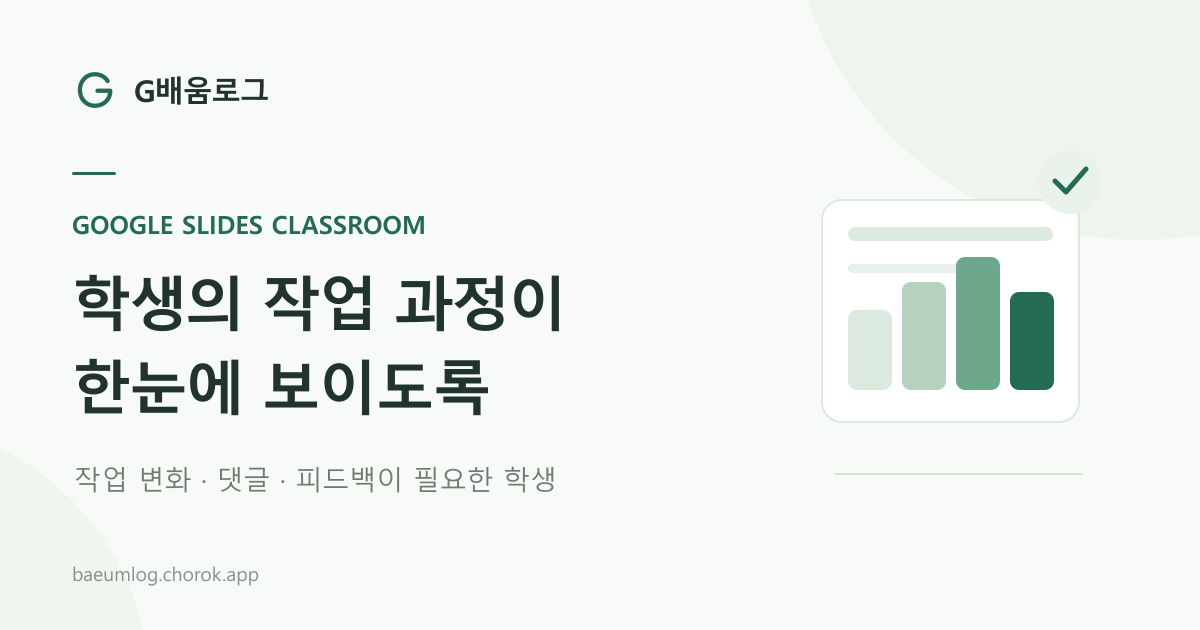
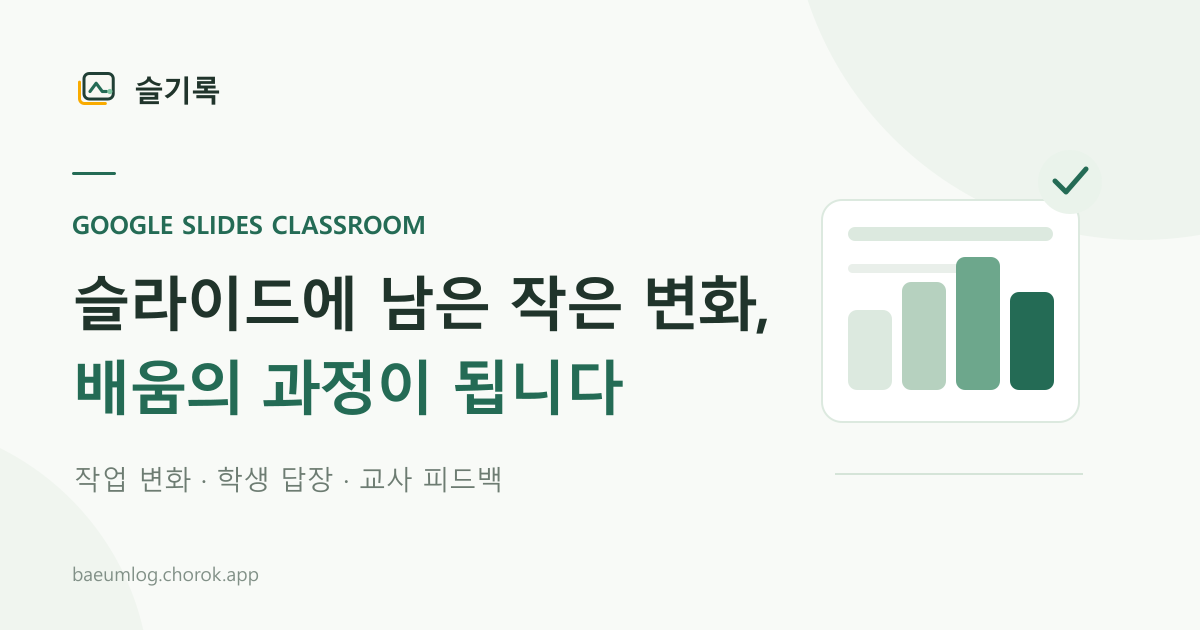
Apply Seulgirok branding with legacy data compatibility

diff --git a/src/app/privacy/page.js b/src/app/privacy/page.js
@@ -1,22 +1,22 @@
 import PublicInfoPage, { SupportContact } from '@/components/PublicInfoPage';
 
-export const metadata = { title: '개인정보처리방침 | G배움로그' };
+export const metadata = { title: '개인정보처리방침 | 슬기록' };
 
 export default function PrivacyPage() {
   return <PublicInfoPage title="개인정보처리방침">
-    <p>G배움로그는 교사가 Google 슬라이드 수업에서 학생의 작업 과정과 피드백을 살펴보는 도구입니다. 적용일: 2026년 10월 14일.</p>
+    <p>슬기록은 교사가 Google 슬라이드 수업에서 학생의 작업 과정과 피드백을 살펴보는 도구입니다. 적용일: 2026년 11월 1일.</p>
     <h2>제1조(처리하는 정보와 이용 목적)</h2>
     <ul><li>Google 계정의 표시 이름과 계정 식별값: 연결한 교사 계정을 확인하고 다른 계정의 저장소가 섞이지 않도록 사용합니다.</li><li>학급·과제·학생 번호와 이름 또는 가명, 연결된 슬라이드: 교사가 선택한 학급과 과제를 표시하고 학생별 작업을 연결합니다.</li><li>슬라이드의 글자·이미지·장 수, 텍스트와 확인 시각: 작업 변화를 기록하고 키워드를 확인합니다. 교사가 현재 작업 확인·수업 실시간 확인 또는 본문 조회를 선택하면 브라우저에서 슬라이드 본문을 읽습니다.</li><li>댓글·답장·피드백·교사 메모·키워드: 학생과 교사의 대화 및 교사의 관찰 기록을 제공합니다.</li></ul>
     <h2>제2조(Google 권한을 사용하는 방식)</h2>
-    <p>첫 로그인에서 G배움로그가 만들거나 교사가 Google Picker에서 직접 선택한 파일을 조회·저장하는 <code>drive.file</code> 권한을 요청합니다. 기존 자료와 예시 슬라이드는 교사가 Google Drive 선택 화면에서 명시적으로 고릅니다. 앱은 이 권한으로 Drive 전체 파일을 임의로 읽지 않습니다. 허용한 연결이 유효한 동안 학급·과제 생성이나 저장할 때마다 다시 동의를 요청하지 않으며, 연결이 만료되거나 로그아웃한 경우 다시 연결해야 할 수 있습니다.</p>
+    <p>첫 로그인에서 슬기록이 만들거나 교사가 Google Picker에서 직접 선택한 파일을 조회·저장하는 <code>drive.file</code> 권한을 요청합니다. 기존 자료와 예시 슬라이드는 교사가 Google Drive 선택 화면에서 명시적으로 고릅니다. 앱은 이 권한으로 Drive 전체 파일을 임의로 읽지 않습니다. 허용한 연결이 유효한 동안 학급·과제 생성이나 저장할 때마다 다시 동의를 요청하지 않으며, 연결이 만료되거나 로그아웃한 경우 다시 연결해야 할 수 있습니다.</p>
     <p>앱은 요청한 기능을 수행하기 위해 Google 사용자 데이터를 사용하며, 맞춤 광고나 AI 모델 학습을 위해 제공하지 않습니다. Google API에서 받은 정보의 사용 및 다른 앱으로의 전송에는 <a href="https://developers.google.com/terms/api-services-user-data-policy" target="_blank" rel="noopener noreferrer">Google API 서비스 사용자 데이터 정책</a>과 Limited Use 요건을 적용합니다.</p>
     <h2>제3조(저장 위치와 보관)</h2>
-    <p>학급 명단, 과제, 학생 슬라이드는 교사의 Google Drive에 저장합니다. 새 작업 기록·키워드·교사 메모는 과제별 교사 비공개 Google 시트에 저장합니다. 앱에서 작성한 피드백과 답글은 연결된 슬라이드의 Google 댓글로 저장합니다. 이 자료는 해당 교사의 Google 계정에 보관되며 다른 G배움로그 사용자와 공유되지 않습니다.</p>
+    <p>학급 명단, 과제, 학생 슬라이드는 교사의 Google Drive에 저장합니다. 새 작업 기록·키워드·교사 메모는 과제별 교사 비공개 Google 시트에 저장합니다. 앱에서 작성한 피드백과 답글은 연결된 슬라이드의 Google 댓글로 저장합니다. 이 자료는 해당 교사의 Google 계정에 보관되며 다른 슬기록 사용자와 공유되지 않습니다.</p>
     <p>Google 접근 토큰은 실행 중인 브라우저 메모리에만 보관하며 서버 저장소나 브라우저 영구 저장소에 저장하지 않습니다. 로그아웃하거나 페이지를 닫으면 연결을 종료합니다. OAuth 클라이언트 ID는 연결 설정을 직접 입력한 경우 브라우저에 남을 수 있으며 접근 토큰이나 비밀번호가 아닙니다.</p>
     <p>Google 파일과 기록은 교사가 삭제할 때까지 교사 계정에 남습니다. 로그아웃이나 Google 연결 해제만으로 해당 파일이 삭제되지는 않습니다. 앱이 닫혀 있을 때 학생 작업을 자동으로 수집하지 않습니다.</p>
     <p>교사가 종료하지 않은 과제의 관찰 화면을 열면 교사 비공개 기록 저장소를 연결하고, 화면이 보이는 동안 학생 작업을 약 30초 간격으로 확인합니다. 모니터링 종료 상태와 학생별 기록 중지 상태를 먼저 확인하며, 중지된 학생의 새 자료는 조회하지 않습니다. 교사는 자동 확인을 일시 중지하거나 과제의 모니터링을 종료할 수 있습니다.</p>
     <h2>제4조(개인정보 안전조치)</h2>
-    <ul><li>운영 웹앱과 Google API 연결은 HTTPS를 사용합니다. 접근 토큰은 브라우저 메모리에 보관하고, 만료 시각을 확인해 만료된 연결의 갱신을 요청합니다.</li><li>교사 기록 저장소의 소유자와 비공개 공유 상태를 검사합니다. 교사 소유의 비공개 파일인지 확인할 수 없으면 해당 기록 저장소의 읽기·쓰기를 중단합니다.</li><li>학생 접속용 시트와 교사 기록 저장소를 분리합니다. 공통 접속용 시트에 교사 메모·피드백·작업기록을 넣지 않습니다.</li><li>운영 주소의 학급·관찰·학생 경로는 모두 현재 G배움로그 화면으로 연결합니다.</li></ul>
+    <ul><li>운영 웹앱과 Google API 연결은 HTTPS를 사용합니다. 접근 토큰은 브라우저 메모리에 보관하고, 만료 시각을 확인해 만료된 연결의 갱신을 요청합니다.</li><li>교사 기록 저장소의 소유자와 비공개 공유 상태를 검사합니다. 교사 소유의 비공개 파일인지 확인할 수 없으면 해당 기록 저장소의 읽기·쓰기를 중단합니다.</li><li>학생 접속용 시트와 교사 기록 저장소를 분리합니다. 공통 접속용 시트에 교사 메모·피드백·작업기록을 넣지 않습니다.</li><li>운영 주소의 학급·관찰·학생 경로는 모두 현재 슬기록 화면으로 연결합니다.</li></ul>
     <p>학생 본문을 앱 서버의 별도 데이터베이스에 저장하지 않는다는 것은 학생 개인정보를 처리하지 않는다는 뜻이 아닙니다. 앱은 위에 안내한 학생 정보와 작업 자료를 브라우저에서 조회하고 교사가 선택한 Google 파일에 기록합니다.</p>
     <h2>제5조(학생 링크와 공유)</h2>
     <p>공통 학생 링크에는 별도 접속 시트의 학생 번호·이름 또는 가명·슬라이드 연결·학급명·과제명만 제공합니다. 교사 메모와 작업기록 저장소는 이 접속 시트에 넣지 않습니다. 공통 링크를 받은 사람은 학생 목록을 볼 수 있으며, 이름 선택만으로 학생 본인을 인증하지는 않습니다.</p>

diff --git a/src/lib/googleApi.js b/src/lib/googleApi.js
@@ -1,4 +1,4 @@
-// Client-side Google API wrapper for SlideSight
+// Client-side Google API wrapper for 슬기록
 import { createGoogleClassroom } from './googleClassroom.mjs';
 import { assignmentFileName, parseAssignmentFileName } from './assignmentFileNames.mjs';
 
@@ -258,7 +258,7 @@ export async function createDatabaseSpreadsheet(className, assignmentName) {
       }
     });
   } catch (permErr) {
-    console.warn('[SlideSight] 스프레드시트 링크 공유 권한 설정 실패 (학교 도메인 정책 제한일 수 있음):', permErr);
+    console.warn('[슬기록] 스프레드시트 링크 공유 권한 설정 실패 (학교 도메인 정책 제한일 수 있음):', permErr);
   }
 
   return spreadsheetId;
@@ -313,7 +313,7 @@ export async function duplicateSlideForStudents(templateId, studentsList, spread
           fileId: templateId,
           supportsAllDrives: true,
           resource: {
-            name: `[${studentNum ? studentNum + '번 ' : ''}${studentName}] SlideSight 과제`
+            name: `[${studentNum ? studentNum + '번 ' : ''}${studentName}] 슬기록 과제`
           }
         });
 
@@ -331,7 +331,7 @@ export async function duplicateSlideForStudents(templateId, studentsList, spread
             }
           });
         } catch (permErr) {
-          console.warn(`[SlideSight] ${studentName} 슬라이드 권한 설정 경고:`, permErr);
+          console.warn(`[슬기록] ${studentName} 슬라이드 권한 설정 경고:`, permErr);
         }
 
         completedCount++;
@@ -404,7 +404,7 @@ export async function duplicateSlideForStudents(templateId, studentsList, spread
       }
     });
   } catch (baseErr) {
-    console.warn('[SlideSight] 템플릿 기준선 측정 실패 (대체 계산 사용):', baseErr);
+    console.warn('[슬기록] 템플릿 기준선 측정 실패 (대체 계산 사용):', baseErr);
   }
 
   return studentsResults;
@@ -562,7 +562,7 @@ export async function fetchSlideStats(slideId, keywords = []) {
 export async function fetchAssignmentsList(className = null) {
   if (!getAccessToken()) throw new Error('Not authenticated');
 
-  const query = "(name contains 'G배움로그_과제_' or name contains 'SlideSight_DB_') and mimeType = 'application/vnd.google-apps.spreadsheet' and trashed = false";
+  const query = "(name contains '슬기록_과제_' or name contains 'G배움로그_과제_' or name contains 'SlideSight_DB_') and mimeType = 'application/vnd.google-apps.spreadsheet' and trashed = false";
 
   const response = await window.gapi.client.drive.files.list({
     q: query,
@@ -784,9 +784,9 @@ export async function appendActivityLogs(spreadsheetId, logs) {
  * 8. 학급 명단 저장소 파일 검색 및 생성
  */
 async function getOrCreateRosterSpreadsheet() {
-  // 1) "G배움로그_학급명단_저장소" 또는 기존 "슬라이드대시보드_학급명단_저장소" 파일 검색
+  // 1) 슬기록 또는 이전 버전 학급 명단 저장소 검색
   const listResp = await window.gapi.client.drive.files.list({
-    q: "(name = 'G배움로그_학급명단_저장소' or name = '슬라이드대시보드_학급명단_저장소') and mimeType = 'application/vnd.google-apps.spreadsheet' and trashed = false",
+    q: "(name = '슬기록_학급명단_저장소' or name = 'G배움로그_학급명단_저장소' or name = '슬라이드대시보드_학급명단_저장소') and mimeType = 'application/vnd.google-apps.spreadsheet' and trashed = false",
     fields: 'files(id, name)'
   });
 
@@ -798,7 +798,7 @@ async function getOrCreateRosterSpreadsheet() {
   // 2) 없으면 새로 만들기
   const createResp = await window.gapi.client.sheets.spreadsheets.create({
     resource: {
-      properties: { title: 'G배움로그_학급명단_저장소' }
+      properties: { title: '슬기록_학급명단_저장소' }
     }
   });
   return createResp.result.spreadsheetId;
@@ -866,7 +866,7 @@ export async function fetchClassRosters() {
   if (!getAccessToken()) throw new Error('Not authenticated');
 
   const listResp = await window.gapi.client.drive.files.list({
-    q: "(name = 'G배움로그_학급명단_저장소' or name = '슬라이드대시보드_학급명단_저장소') and mimeType = 'application/vnd.google-apps.spreadsheet' and trashed = false",
+    q: "(name = '슬기록_학급명단_저장소' or name = 'G배움로그_학급명단_저장소' or name = '슬라이드대시보드_학급명단_저장소') and mimeType = 'application/vnd.google-apps.spreadsheet' and trashed = false",
     fields: 'files(id)'
   });
 
@@ -892,7 +892,7 @@ export async function loadClassRoster(rosterName) {
   if (!getAccessToken()) throw new Error('Not authenticated');
 
   const listResp = await window.gapi.client.drive.files.list({
-    q: "(name = 'G배움로그_학급명단_저장소' or name = '슬라이드대시보드_학급명단_저장소') and mimeType = 'application/vnd.google-apps.spreadsheet' and trashed = false",
+    q: "(name = '슬기록_학급명단_저장소' or name = 'G배움로그_학급명단_저장소' or name = '슬라이드대시보드_학급명단_저장소') and mimeType = 'application/vnd.google-apps.spreadsheet' and trashed = false",
     fields: 'files(id)'
   });
 
@@ -920,7 +920,7 @@ export async function deleteClassRoster(rosterName) {
   if (!getAccessToken()) throw new Error('Not authenticated');
 
   const listResp = await window.gapi.client.drive.files.list({
-    q: "(name = 'G배움로그_학급명단_저장소' or name = '슬라이드대시보드_학급명단_저장소') and mimeType = 'application/vnd.google-apps.spreadsheet' and trashed = false",
+    q: "(name = '슬기록_학급명단_저장소' or name = 'G배움로그_학급명단_저장소' or name = '슬라이드대시보드_학급명단_저장소') and mimeType = 'application/vnd.google-apps.spreadsheet' and trashed = false",
     fields: 'files(id)'
   });
 

diff --git a/src/app/terms/page.js b/src/app/terms/page.js
@@ -1,13 +1,13 @@
 import PublicInfoPage, { SupportContact } from '@/components/PublicInfoPage';
 
-export const metadata = { title: '이용 안내 | G배움로그' };
+export const metadata = { title: '이용 안내 | 슬기록' };
 
 export default function TermsPage() {
   return <PublicInfoPage title="이용 안내">
-    <p>G배움로그는 Google 슬라이드 수업의 작업 과정, 학생 답장, 교사 피드백과 비공개 메모를 살펴보는 교사용 도구입니다. 적용일: 2026년 10월 14일.</p>
+    <p>슬기록은 Google 슬라이드 수업의 작업 과정, 학생 답장, 교사 피드백과 비공개 메모를 살펴보는 교사용 도구입니다. 적용일: 2026년 11월 1일.</p>
     <h2>교사와 학생의 이용</h2><p>교사는 자신의 Google 계정으로 자료를 연결하고 학급·과제와 학생 번호·이름 또는 가명을 등록합니다. 학생은 교사가 안내한 공통 링크에서 자신의 번호·이름을 선택하거나 개별 슬라이드 링크로 접속합니다. 교사는 학생 자료의 수집과 공유를 학교의 지침에 맞게 관리합니다.</p>
     <h2>기록의 해석</h2><p>표시되는 변화는 앱이 실제로 확인한 시점 사이의 차이입니다. 미수집 기간의 작업 시각이나 활동을 추정하지 않습니다. 텍스트 증가만으로 복사·붙여넣기나 부정행위를 단정하지 않으며, 기록은 학생과의 대화 및 교사의 평가 판단을 돕는 자료로 사용합니다.</p>
-    <h2>계정·파일·접속 링크 관리</h2><p>G배움로그는 앱이 만들거나 교사가 Google Drive 선택 화면에서 직접 고른 파일만 연결합니다. Google 권한, 학생 파일의 공유 범위, 공통 접속 링크 및 내보낸 자료는 교사가 관리합니다. 학생은 자기 이름과 연결된 파일을 선택해 사용하고 다른 학생의 자료를 임의로 수정하지 않아야 합니다. 공통 링크의 이름 선택은 신원을 인증하는 절차가 아닙니다.</p>
+    <h2>계정·파일·접속 링크 관리</h2><p>슬기록은 앱이 만들거나 교사가 Google Drive 선택 화면에서 직접 고른 파일만 연결합니다. Google 권한, 학생 파일의 공유 범위, 공통 접속 링크 및 내보낸 자료는 교사가 관리합니다. 학생은 자기 이름과 연결된 파일을 선택해 사용하고 다른 학생의 자료를 임의로 수정하지 않아야 합니다. 공통 링크의 이름 선택은 신원을 인증하는 절차가 아닙니다.</p>
     <h2>서비스 연결과 변경</h2><p>Google 인증 상태, 학교 계정 정책, API 사용량 또는 네트워크 상태에 따라 연결 기능이 제한될 수 있습니다. 브라우저를 닫으면 작업 수집을 중단합니다. 수업 전에 연결과 학생 접속 권한을 확인하고, 중요한 자료는 교사의 Google Drive에서 보관 상태를 확인해 주세요.</p>
     <h2>데이터 처리와 문의</h2><p>자료 처리 및 삭제·접근 권한 해제 방법은 개인정보처리방침에서 안내합니다.</p><SupportContact />
   </PublicInfoPage>;

diff --git a/src/components/ClassWorkspace.js b/src/components/ClassWorkspace.js
@@ -100,7 +100,7 @@ export default function ClassWorkspace({ classItem, assignments, roster, rosterE
   const visible = assignments.filter((assignment) => assignment.name.toLocaleLowerCase().includes(search.trim().toLocaleLowerCase()));
   return <div className={styles.page}>
     <header className={styles.header}><div className={styles.headerInner}>
-      <button className={`${styles.brand} ${real.brandButton}`} onClick={onBack} disabled={busy}><BrandMark size={36} /><span>G배움로그</span></button>
+      <button className={`${styles.brand} ${real.brandButton}`} onClick={onBack} disabled={busy}><BrandMark size={36} /><span>슬기록</span></button>
       <div className={real.headerActions}><span>{account?.displayName && `${account.displayName} 선생님`}</span><button className={real.plainButton} onClick={onReconnect} disabled={busy}>다시 로그인</button><button className={real.plainButton} onClick={onLogout} disabled={busy}>로그아웃</button></div>
     </div></header>
     <main className={styles.main}>
@@ -129,7 +129,7 @@ export default function ClassWorkspace({ classItem, assignments, roster, rosterE
             <button className={styles.cardButton} disabled={busy} onClick={() => onOpen(assignment)} aria-label={`${assignment.name} ${assignment.slidesTrashed ? '저장된 기록 보기' : '학생 작업 살펴보기'}`}><span>{assignment.slidesTrashed ? '저장된 기록 보기' : '학생 작업 살펴보기'}</span><Icon name="arrow" size={17} /></button>
           </article>)}
         </div>
-        {!visible.length && <div className={styles.empty}><h3>{search ? '검색한 과제가 없어요' : '첫 과제를 만들어 보세요'}</h3><p>{search ? '다른 과제 이름을 검색해 주세요.' : '새 과제를 만들거나 이전 G배움로그 과제 시트를 가져올 수 있어요.'}</p>{search ? <button className={styles.secondaryButton} onClick={() => setSearch('')}>전체 과제 보기</button> : onCreate && <div className={real.assignmentActions}>{onImport && <button className={styles.secondaryButton} onClick={onImport} disabled={busy}>기존 과제 가져오기</button>}<button className={styles.primaryButton} onClick={onCreate} disabled={busy || !roster?.length}>새 과제 만들기</button></div>}</div>}
+        {!visible.length && <div className={styles.empty}><h3>{search ? '검색한 과제가 없어요' : '첫 과제를 만들어 보세요'}</h3><p>{search ? '다른 과제 이름을 검색해 주세요.' : '새 과제를 만들거나 이전 슬기록·G배움로그 과제 시트를 가져올 수 있어요.'}</p>{search ? <button className={styles.secondaryButton} onClick={() => setSearch('')}>전체 과제 보기</button> : onCreate && <div className={real.assignmentActions}>{onImport && <button className={styles.secondaryButton} onClick={onImport} disabled={busy}>기존 과제 가져오기</button>}<button className={styles.primaryButton} onClick={onCreate} disabled={busy || !roster?.length}>새 과제 만들기</button></div>}</div>}
       </section>
       <MadeByStamp />
     </main>

diff --git a/src/components/EntryScreen.js b/src/components/EntryScreen.js
@@ -28,19 +28,19 @@ export default function EntryScreen({ onLogin, preview = false, loading = false,
     <main className={styles.page}>
       <div className={styles.canvas}>
         <header className={styles.header}>
-          <div className={styles.brand} aria-label="G배움로그">
+          <div className={styles.brand} aria-label="슬기록">
             <BrandMark size={42} />
-            <span>G배움로그</span>
+            <span>슬기록</span>
           </div>
           <span className={styles.headerNote}>학생의 작업 과정을 살피는 도구</span>
         </header>
 
         <div className={styles.layout}>
           <section className={styles.story} aria-labelledby="hero-title">
-            <div className={styles.eyebrow}><span className={styles.eyebrowLine} /> G배움로그를 소개합니다</div>
+            <div className={styles.eyebrow}><span className={styles.eyebrowLine} /> 결과보다 과정을 봅니다</div>
             <h1 id="hero-title" className={styles.headline}>
-              학생의 슬라이드 작업,<br />
-              <span>과정까지 한눈에.</span>
+              슬라이드에 남은 작은 변화,<br />
+              <span>배움의 과정이 됩니다.</span>
             </h1>
             <p className={styles.description}>
               구글 슬라이드로 수업할 때, 학생마다 다른 진행 상황을 살피고 필요한 도움을 제때 전할 수 있습니다.
@@ -48,7 +48,7 @@ export default function EntryScreen({ onLogin, preview = false, loading = false,
           </section>
 
           <section className={styles.signInCard} aria-labelledby="sign-in-title">
-            <div className={styles.cardOverline}>G배움로그 시작하기</div>
+            <div className={styles.cardOverline}>슬기록 시작하기</div>
             <h2 id="sign-in-title">선생님, 반갑습니다.</h2>
             <p>Google 계정으로 연결하면<br />학급의 기록을 이어서 볼 수 있어요.</p>
 
@@ -68,7 +68,7 @@ export default function EntryScreen({ onLogin, preview = false, loading = false,
             {children}
 
             <div className={styles.supported}>
-              선택한 파일과 G배움로그가 만든 자료만 연결합니다.
+              선택한 파일과 슬기록이 만든 자료만 연결합니다.
             </div>
 
             <div className={styles.privacyNote}>
@@ -81,7 +81,7 @@ export default function EntryScreen({ onLogin, preview = false, loading = false,
           </section>
 
           <section className={styles.steps} aria-labelledby="steps-title">
-            <h2 id="steps-title">G배움로그에서 살펴볼 수 있는 것</h2>
+            <h2 id="steps-title">슬기록에서 살펴볼 수 있는 것</h2>
             <div className={styles.stepList}>
               <div className={styles.step}>
                 <span>01</span>

diff --git a/src/components/SlideDashboardPreview.js b/src/components/SlideDashboardPreview.js
@@ -245,7 +245,7 @@ export default function SlideDashboardPreview({ className, assignment, initialDa
     const url = URL.createObjectURL(new Blob([data], { type: kind === 'csv' ? 'text/csv;charset=utf-8' : 'application/json;charset=utf-8' }));
     const anchor = document.createElement('a');
     anchor.href = url;
-    anchor.download = `G배움로그_${className.replace(/[<>:"/\\|?*]/g, '_')}_${assignment.name.replace(/[<>:"/\\|?*]/g, '_')}_${readOnly ? '저장기록' : '예시'}.${kind}`;
+    anchor.download = `슬기록_${className.replace(/[<>:"/\\|?*]/g, '_')}_${assignment.name.replace(/[<>:"/\\|?*]/g, '_')}_${readOnly ? '저장기록' : '예시'}.${kind}`;
     anchor.click();
     setTimeout(() => URL.revokeObjectURL(url), 1000);
     setNotice(readOnly ? '저장된 기록의 내보내기를 요청했습니다. JSON에는 원본 행과 댓글 조회 여부도 포함됩니다.' : kind === 'csv' ? '예시 종합기록 CSV를 내려받았습니다.' : '예시 전체 기록 JSON을 내려받았습니다. 확인 시각과 수집 구분이 포함됩니다.');
@@ -253,7 +253,7 @@ export default function SlideDashboardPreview({ className, assignment, initialDa
 
   return <div className={styles.page}>
     <header className={styles.header}><div className={styles.headerInner}>
-      {readOnly ? <button className={`${styles.brand} ${styles.brandButton}`} onClick={onHome || onBack}><BrandMark size={34} /><span>G배움로그</span></button> : <Link href="/design-preview/classes" className={styles.brand}><BrandMark size={34} /><span>G배움로그</span></Link>}
+      {readOnly ? <button className={`${styles.brand} ${styles.brandButton}`} onClick={onHome || onBack}><BrandMark size={34} /><span>슬기록</span></button> : <Link href="/design-preview/classes" className={styles.brand}><BrandMark size={34} /><span>슬기록</span></Link>}
       {readOnly ? <button className={styles.backLink} onClick={onBack}><Icon name="back" size={15} /> 과제 목록</button> : <Link className={styles.backLink} href={`/design-preview/classroom?className=${encodeURIComponent(className)}`}><Icon name="back" size={15} /> 과제 목록</Link>}
     </div></header>
     <main className={styles.main}>

diff --git a/src/app/layout.js b/src/app/layout.js
@@ -3,26 +3,26 @@ import "./globals.css";
 
 export const metadata = {
   metadataBase: new URL('https://baeumlog.chorok.app'),
-  title: 'G배움로그 | Google 슬라이드 수업의 작업 기록',
-  description: '학생별 작업 변화와 피드백이 필요한 학생을 한눈에 살펴보세요.',
+  title: '슬기록 | 슬라이드 수업의 과정을 슬기롭게',
+  description: '학생의 슬라이드 작업 변화와 피드백이 필요한 순간을 한눈에 살펴보세요.',
   openGraph: {
-    title: 'G배움로그 | Google 슬라이드 수업의 작업 기록',
-    description: '학생별 작업 변화와 피드백이 필요한 학생을 한눈에 살펴보세요.',
-    siteName: 'G배움로그',
+    title: '슬기록 | 슬라이드 수업의 과정을 슬기롭게',
+    description: '학생의 슬라이드 작업 변화와 피드백이 필요한 순간을 한눈에 살펴보세요.',
+    siteName: '슬기록',
     locale: 'ko_KR',
     type: 'website',
-    images: [{ url: '/share-preview.png', width: 1200, height: 630, alt: 'G배움로그, Google 슬라이드 수업의 작업 기록을 한눈에' }],
+    images: [{ url: '/share-preview.png', width: 1200, height: 630, alt: '슬기록, 슬라이드 수업의 작업 과정을 한눈에' }],
   },
   twitter: {
     card: 'summary_large_image',
-    title: 'G배움로그 | Google 슬라이드 수업의 작업 기록',
-    description: '학생별 작업 변화와 피드백이 필요한 학생을 한눈에 살펴보세요.',
+    title: '슬기록 | 슬라이드 수업의 과정을 슬기롭게',
+    description: '학생의 슬라이드 작업 변화와 피드백이 필요한 순간을 한눈에 살펴보세요.',
     images: ['/share-preview.png'],
   },
   icons: {
-    icon: '/g-learning-log-line.svg',
-    shortcut: '/g-learning-log-line.svg',
-    apple: '/g-learning-log-line.svg',
+    icon: '/seulgirok-favicon.svg',
+    shortcut: '/favicon.ico',
+    apple: '/apple-touch-icon.png',
   },
 };
 

diff --git a/src/components/StudentEntry.js b/src/components/StudentEntry.js
@@ -25,7 +25,7 @@ export default function StudentEntry({ sheetId, example = null }) {
     return () => { cancelled = true; window.removeEventListener('focus', whenVisible); document.removeEventListener('visibilitychange', whenVisible); };
   }, [sheetId, example, retry]);
   const visible = (data?.students || []).filter((student) => `${student.number} ${student.name}`.includes(search.trim()));
-  return <div className={styles.page}><header className={styles.brand}><BrandMark size={36} /><span>G배움로그</span></header><main className={styles.main}>
+  return <div className={styles.page}><header className={styles.brand}><BrandMark size={36} /><span>슬기록</span></header><main className={styles.main}>
     {example && <span className={styles.example}>디자인 시안</span>}
     <div className={styles.heading}><p>{data?.className || '우리 학급'}</p><h1>{data?.assignmentName || '수업 과제 접속'}</h1><span>내 이름을 선택해 슬라이드를 열어 보세요.</span></div>
     {error ? <div className={styles.empty} role="alert"><p>{error}</p><button onClick={() => { setError(''); setRetry((value) => value + 1); }}>다시 불러오기</button></div> : !data ? <p className={styles.empty} role="status">학생 명단을 불러오는 중이에요…</p> : <>

diff --git a/src/components/ExistingLogReader.js b/src/components/ExistingLogReader.js
@@ -198,11 +198,11 @@ export default function ExistingLogReader() {
   async function importClasses() {
     setBusy(true); setError(''); setNotice('');
     try {
-      const files = await pickFiles({ kind: 'spreadsheet', multiple: true, title: '기존 G배움로그 학급 명단 선택' });
+      const files = await pickFiles({ kind: 'spreadsheet', multiple: true, title: '기존 슬기록·G배움로그 학급 명단 선택' });
       if (!files.length) return;
       const found = await api().listClasses();
       setClasses(found);
-      setNotice(found.length ? `선택한 파일의 접근을 연결했습니다. 학급 ${found.length}개를 확인했어요.` : '파일 접근은 연결했지만 G배움로그 학급 명단을 찾지 못했습니다. 학급 명단 저장소를 선택해 주세요.');
+      setNotice(found.length ? `선택한 파일의 접근을 연결했습니다. 학급 ${found.length}개를 확인했어요.` : '파일 접근은 연결했지만 슬기록 또는 G배움로그 학급 명단을 찾지 못했습니다. 학급 명단 저장소를 선택해 주세요.');
     } catch (err) { setError(err.message); }
     finally { setBusy(false); }
   }

diff --git a/src/app/join/layout.js b/src/app/join/layout.js
@@ -1,17 +1,17 @@
 export const metadata = {
-  title: 'G배움로그 | 학생 슬라이드 접속',
+  title: '슬기록 | 학생 슬라이드 접속',
   description: '선생님이 공유한 수업 슬라이드를 열어 작업하고 댓글을 남겨보세요.',
   openGraph: {
-    title: 'G배움로그 | 학생 슬라이드 접속',
+    title: '슬기록 | 학생 슬라이드 접속',
     description: '선생님이 공유한 수업 슬라이드를 열어 작업하고 댓글을 남겨보세요.',
-    siteName: 'G배움로그',
+    siteName: '슬기록',
     locale: 'ko_KR',
     type: 'website',
-    images: [{ url: '/join-share-preview.png', width: 1200, height: 630, alt: 'G배움로그 학생 슬라이드 접속' }],
+    images: [{ url: '/join-share-preview.png', width: 1200, height: 630, alt: '슬기록 학생 슬라이드 접속' }],
   },
   twitter: {
     card: 'summary_large_image',
-    title: 'G배움로그 | 학생 슬라이드 접속',
+    title: '슬기록 | 학생 슬라이드 접속',
     description: '선생님이 공유한 수업 슬라이드를 열어 작업하고 댓글을 남겨보세요.',
     images: ['/join-share-preview.png'],
   },

diff --git a/src/app/globals.css b/src/app/globals.css
@@ -1,14 +1,15 @@
 @import url('https://cdn.jsdelivr.net/gh/orioncactus/pretendard@v1.3.9/dist/web/static/pretendard.css');
 
 :root {
-  /* Green Theme Design System Colors (G배움 로그) */
-  --brand-green: #16a34a; /* Vibrant Emerald Green */
-  --brand-green-dark: #15803d; /* Deep Forest Green */
-  --brand-green-gradient: linear-gradient(135deg, #10b981 0%, #047857 100%);
+  /* 슬기록 brand colors */
+  --brand-green: #246b55;
+  --brand-green-dark: #203f35;
+  --brand-yellow: #f9ab00;
+  --brand-green-gradient: linear-gradient(135deg, #2f8066 0%, #1d5947 100%);
   
-  --bg-light-green: #f0fdf4; /* Light green background */
-  --border-light-green: #bbf7d0; /* Pale green border */
-  --text-light-green: #15803d; /* Forest green text */
+  --bg-light-green: #f1f7f2;
+  --border-light-green: #cfe1d3;
+  --text-light-green: #246b55;
 
   /* Auxiliary Accent Colors */
   --color-violet-gradient: linear-gradient(135deg, #8b5cf6 0%, #7c3aed 100%);

diff --git a/src/components/PublicInfoPage.js b/src/components/PublicInfoPage.js
@@ -8,5 +8,5 @@ export function SupportContact() {
 }
 
 export default function PublicInfoPage({ title, children }) {
-  return <div className={styles.page}><header><Link href="/" className={styles.brand}><BrandMark size={34} /><span>G배움로그</span></Link><Link href="/">홈으로</Link></header><main><h1>{title}</h1>{children}</main><footer><Link href="/privacy">개인정보처리방침</Link><Link href="/terms">이용 안내</Link><span>made by 초록덕후</span></footer></div>;
+  return <div className={styles.page}><header><Link href="/" className={styles.brand}><BrandMark size={34} /><span>슬기록</span></Link><Link href="/">홈으로</Link></header><main><h1>{title}</h1>{children}</main><footer><Link href="/privacy">개인정보처리방침</Link><Link href="/terms">이용 안내</Link><span>made by 초록덕후</span></footer></div>;
 }
